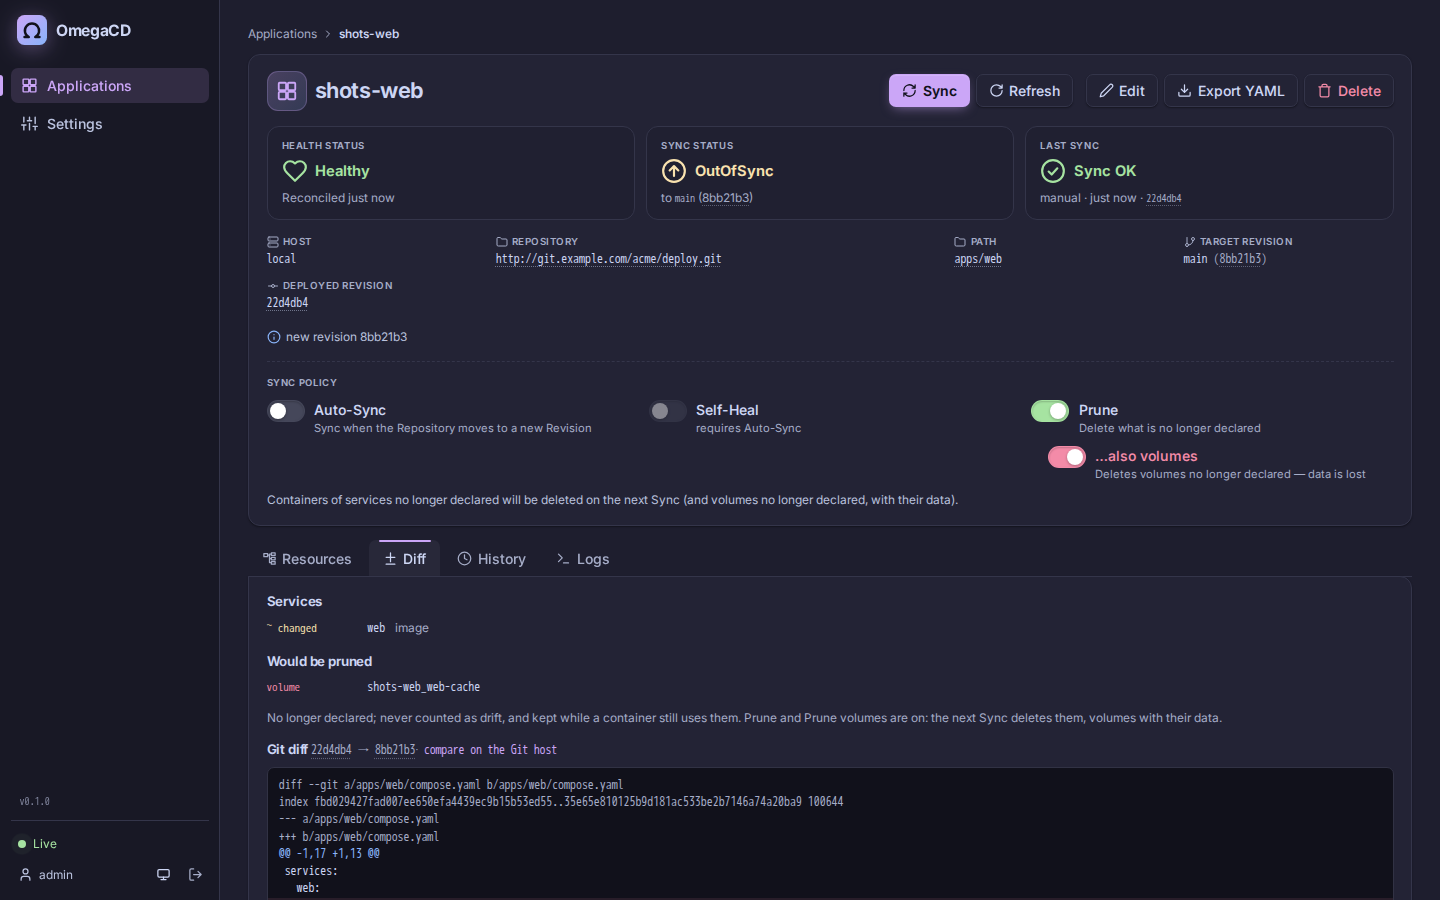
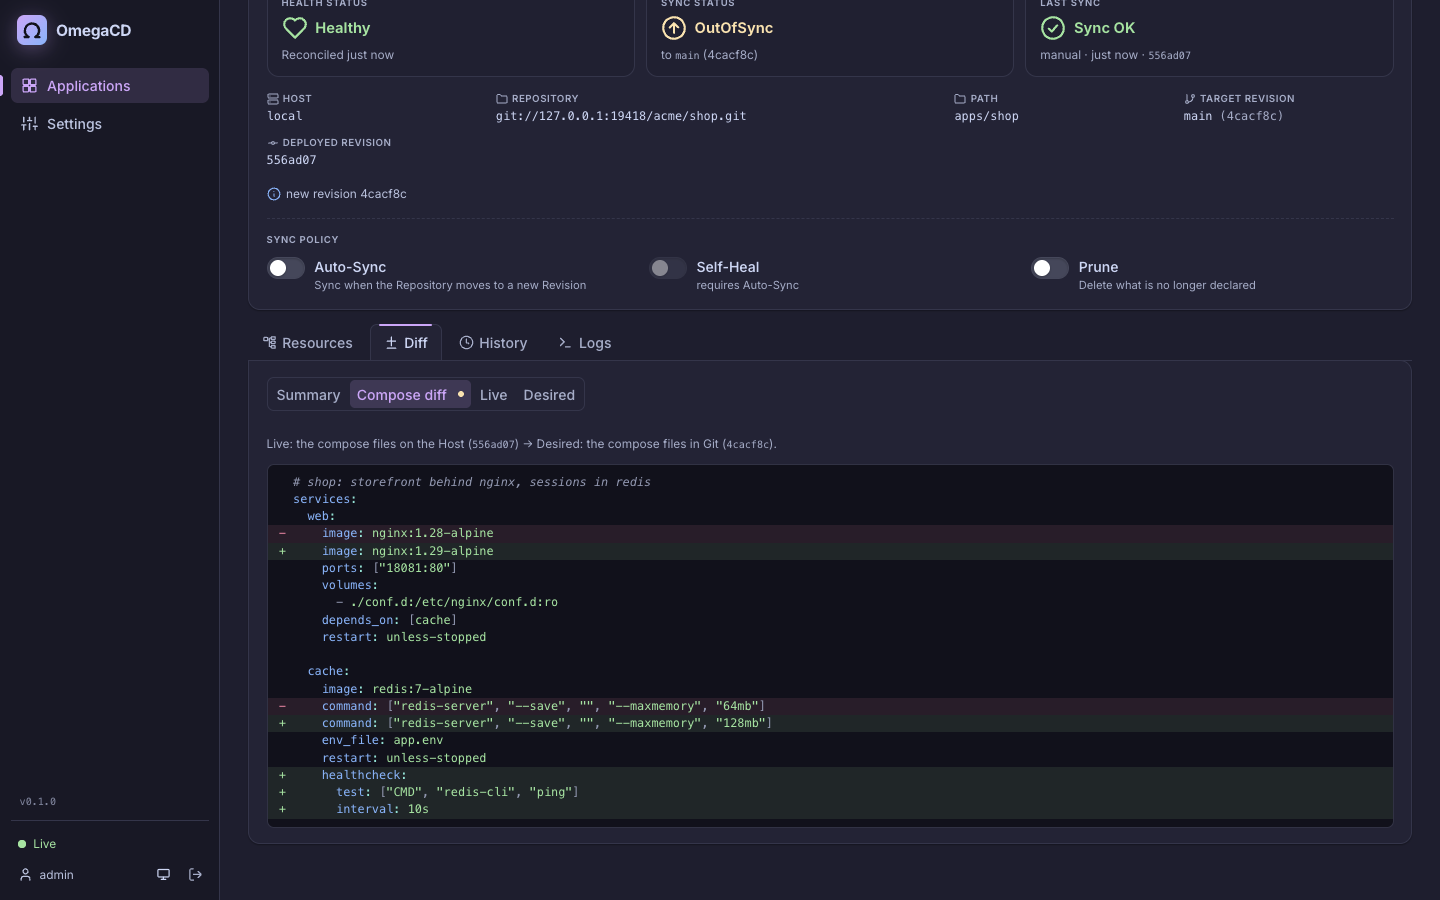
README: Compose diff, syntax colors, persistent work dir, what reaches the disk
New Compose diff screenshot and a screenshot of a decrypted env file (keys only). Corrects 'decrypted secrets never touch disk': env vars are also stored in Docker's container config, so secrets that must stay off disk go in as Compose secret files. Documents a persistent work dir such as /opt/services and that the work dir keeps only decrypted files.

diff --git a/README.md b/README.md
@@ -39,17 +39,17 @@ It stays small: one binary in one container, no database server, no agents on yo
 - **Applications** — a Compose project (one or more compose files, optional profiles) at a path in a Git repo, tracking a branch, tag or commit, deployed to one Host
 - **Sync Status and Health Status** — Synced / OutOfSync / Unknown; Healthy / Progressing / Degraded / Missing / Unknown — live over Server-Sent Events, resynced after reconnects
 - **Sync Policy** — manual Sync, or Auto-Sync on new commits, Self-Heal on drift, and Prune
-- **Diff** — the per-service changes and the Git diff between the deployed and the target Revision
+- **Diff** — Live (the compose files on the Host) and Desired (the compose files in Git) side by side and as a Compose diff, plus the per-service changes and the Git diff between the deployed and the target Revision
 - **History and Rollback** — every Sync Operation is recorded; roll back to any earlier Revision
 - **App of Apps** — declare Applications in Git; one parent Application creates, updates and deletes its children
 - **Remote Hosts** — Docker engines over `ssh://` (host keys verified) or `tcp://` with TLS
 - **Secrets** — SOPS + age encrypted files in Git, decrypted only at Sync time
 - **Change detection** — Git polling plus GitHub, GitLab and Gitea/Forgejo webhooks
-- **Web UI** — resource tree, diffs, colored live container logs, repository access check while creating an Application, links to the Git host, light/dark/system theme, works on phones
+- **Web UI** — resource tree, diffs, colored live container logs, syntax colors for compose and config files (YAML, .env, nginx, Apache, Caddyfile, TOML, Markdown… ~240 formats via Shiki), repository access check while creating an Application, links to the Git host, light/dark/system theme, works on phones
 - **CLI and API** — REST API with API tokens; a CLI for scripts and CI (`omegacd app sync myapp --wait`)
 - **Prometheus metrics** at `/metrics`
 
-| Application detail: resource tree and Sync Policy | Diff of a pending change |
+| Application detail: resource tree and Sync Policy | Compose diff of a pending change |
 | --- | --- |
 | ![Application detail](assets/screenshots/app-detail.png) | ![Diff](assets/screenshots/diff.png) |
 
@@ -96,7 +96,9 @@ Open http://localhost:8080, log in as `admin` with the password from the log, an
 
 **Why `/run/omegacd:/run/omegacd`?** On Sync, OmegaCD writes each Application's files (compose files, configs, decrypted secrets) to its work dir and asks the Docker engine to start the containers. Bind mounts like `./nginx.conf:/etc/nginx/nginx.conf` are resolved by the *engine*, on the host — so the work dir must exist at the same path on the host as inside the OmegaCD container.
 
-**After a reboot** `/run` is empty again (it's RAM-backed, so decrypted secrets never touch disk). Docker restarts your containers before OmegaCD is up, and their bind-mounted files are missing. On startup OmegaCD notices, restores every Application's files from its *deployed* Revision (nothing new is deployed), re-decrypts secrets and recreates the containers — it shows in History as a `restore` Sync. This covers the machine OmegaCD runs on (its work dir is `OMEGACD_WORKDIR`, shown read-only under **Settings → Hosts**); [remote Hosts](#remote-hosts) use a persistent work dir instead.
+**After a reboot** `/run` is empty again (it's RAM-backed, so decrypted secret *files* never touch disk — see [what reaches the disk](#what-reaches-the-disk)). Docker restarts your containers before OmegaCD is up, and their bind-mounted files are missing. On startup OmegaCD notices, restores every Application's files from its *deployed* Revision (nothing new is deployed), re-decrypts secrets and recreates the containers — it shows in History as a `restore` Sync. This covers the machine OmegaCD runs on (its work dir is `OMEGACD_WORKDIR`, shown read-only under **Settings → Hosts**); [remote Hosts](#remote-hosts) use a persistent work dir instead.
+
+**A persistent work dir instead:** point `OMEGACD_WORKDIR` at a disk path such as `/opt/services` and mount it at the same path (`/opt/services:/opt/services`). The files then survive reboots and no `restore` Sync is needed, but decrypted secret files sit on that disk (mode 0600) and end up in its backups. Either way the work dir is OmegaCD's copy of Git, not a place for data: every Sync makes it match Git again (see [Where your data lives](#where-your-data-lives)). Changing the path is safe: on its first start with the new path OmegaCD finds no files there and restores every Application into it, recreating the containers once.
 
 **Upgrade:** bump the image tag (or `docker compose pull` for `latest`) and run `docker compose up -d`. Data lives in the `omegacd-data` volume.
 
@@ -306,7 +308,7 @@ Decryption uses age keys only: files encrypted solely with PGP or a cloud KMS ar
 
 **Rotating a Host Key:** *Generate new key* (or import one) makes it current; the old key becomes *previous* and is still tried when decrypting, so Syncs keep working. Re-encrypt the Host's files with `sops updatekeys` after updating `.sops.yaml`, push, then remove the previous key. A file no key of its Host can decrypt fails the Sync with the keys it is encrypted for and the keys the Host has.
 
-Any file whose name contains `.sops.` is decrypted at Sync time next to the encrypted file, with `.sops.` removed from the name — `app.sops.env` becomes `app.env`, `db-password.sops.txt` becomes `db-password.txt`:
+Any file whose name contains `.sops.` is decrypted at Sync time, with `.sops.` removed from the name — `app.sops.env` becomes `app.env`, `db-password.sops.txt` becomes `db-password.txt`. The work dir keeps only the decrypted file, which is what the containers read; the encrypted one stays in Git:
 
 ```sh
 sops encrypt --age age1... --input-type dotenv --output-type dotenv app.env > app.sops.env
@@ -325,7 +327,20 @@ secrets:
     file: ./db-password.txt    # decrypted from db-password.sops.txt
 ```
 
-The format is taken from the decrypted file's extension: `.yaml`/`.yml`, `.json`, `.env`/`.dotenv`, `.ini`, anything else binary. Plaintext exists only in the Application's work dir (mode 0600; on the local machine `/run` is a tmpfs on most Linux hosts, on [remote Hosts](#remote-hosts) it is on disk) — never in Git and never in the UI, which shows only the keys of decrypted env files.
+The format is taken from the decrypted file's extension: `.yaml`/`.yml`, `.json`, `.env`/`.dotenv`, `.ini`, anything else binary. Plaintext exists only in the Application's work dir (mode 0600; on the local machine `/run` is a tmpfs on most Linux hosts, on [remote Hosts](#remote-hosts) it is on disk) — never in Git and never in the UI, which shows only the keys of decrypted env files:
+
+![A decrypted env file in the UI: keys only, every value hidden](assets/screenshots/secret-file.png)
+
+### What reaches the disk
+
+How a secret reaches the container decides where it ends up:
+
+| In your compose file | Where the plaintext is |
+| --- | --- |
+| `env_file: app.env` or `${VAR}` from a decrypted `.env` | the work dir, **and Docker's container configuration on disk** (`/var/lib/docker`, readable with `docker inspect`) — that is how Docker passes environment variables, with or without OmegaCD |
+| `secrets: [db_password]` with `file: ./db-password.txt` | **only the work dir**: with the default `/run` it never touches disk; the app reads `/run/secrets/db_password` |
+
+For a secret that must stay off disk, use a Compose secret file and, where the image supports it, a `*_FILE` variable (`MARIADB_PASSWORD_FILE: /run/secrets/db_password`).
 
 ## Webhooks
 
